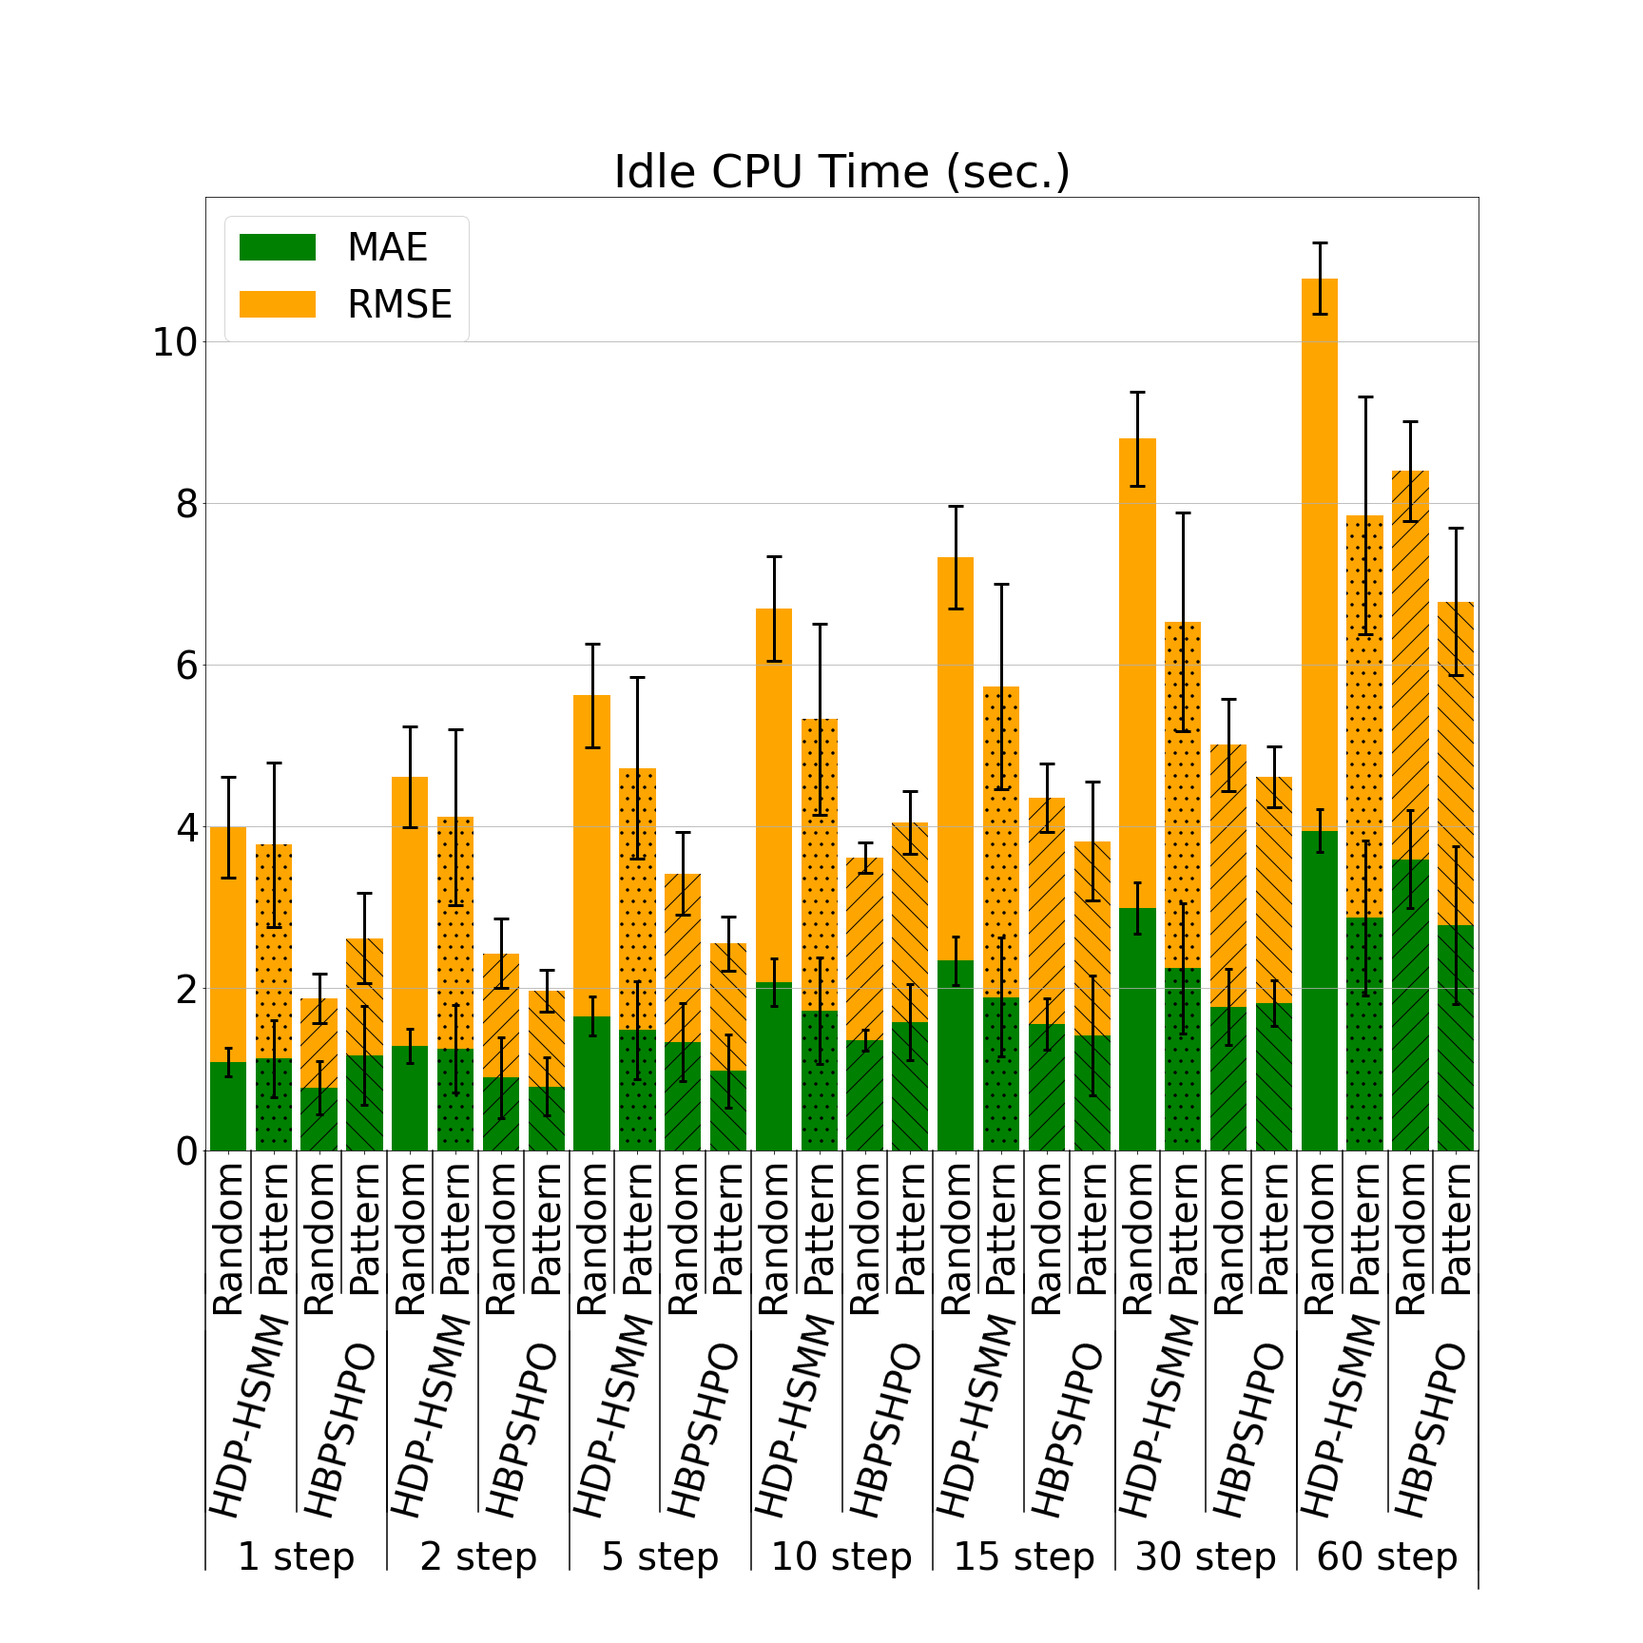
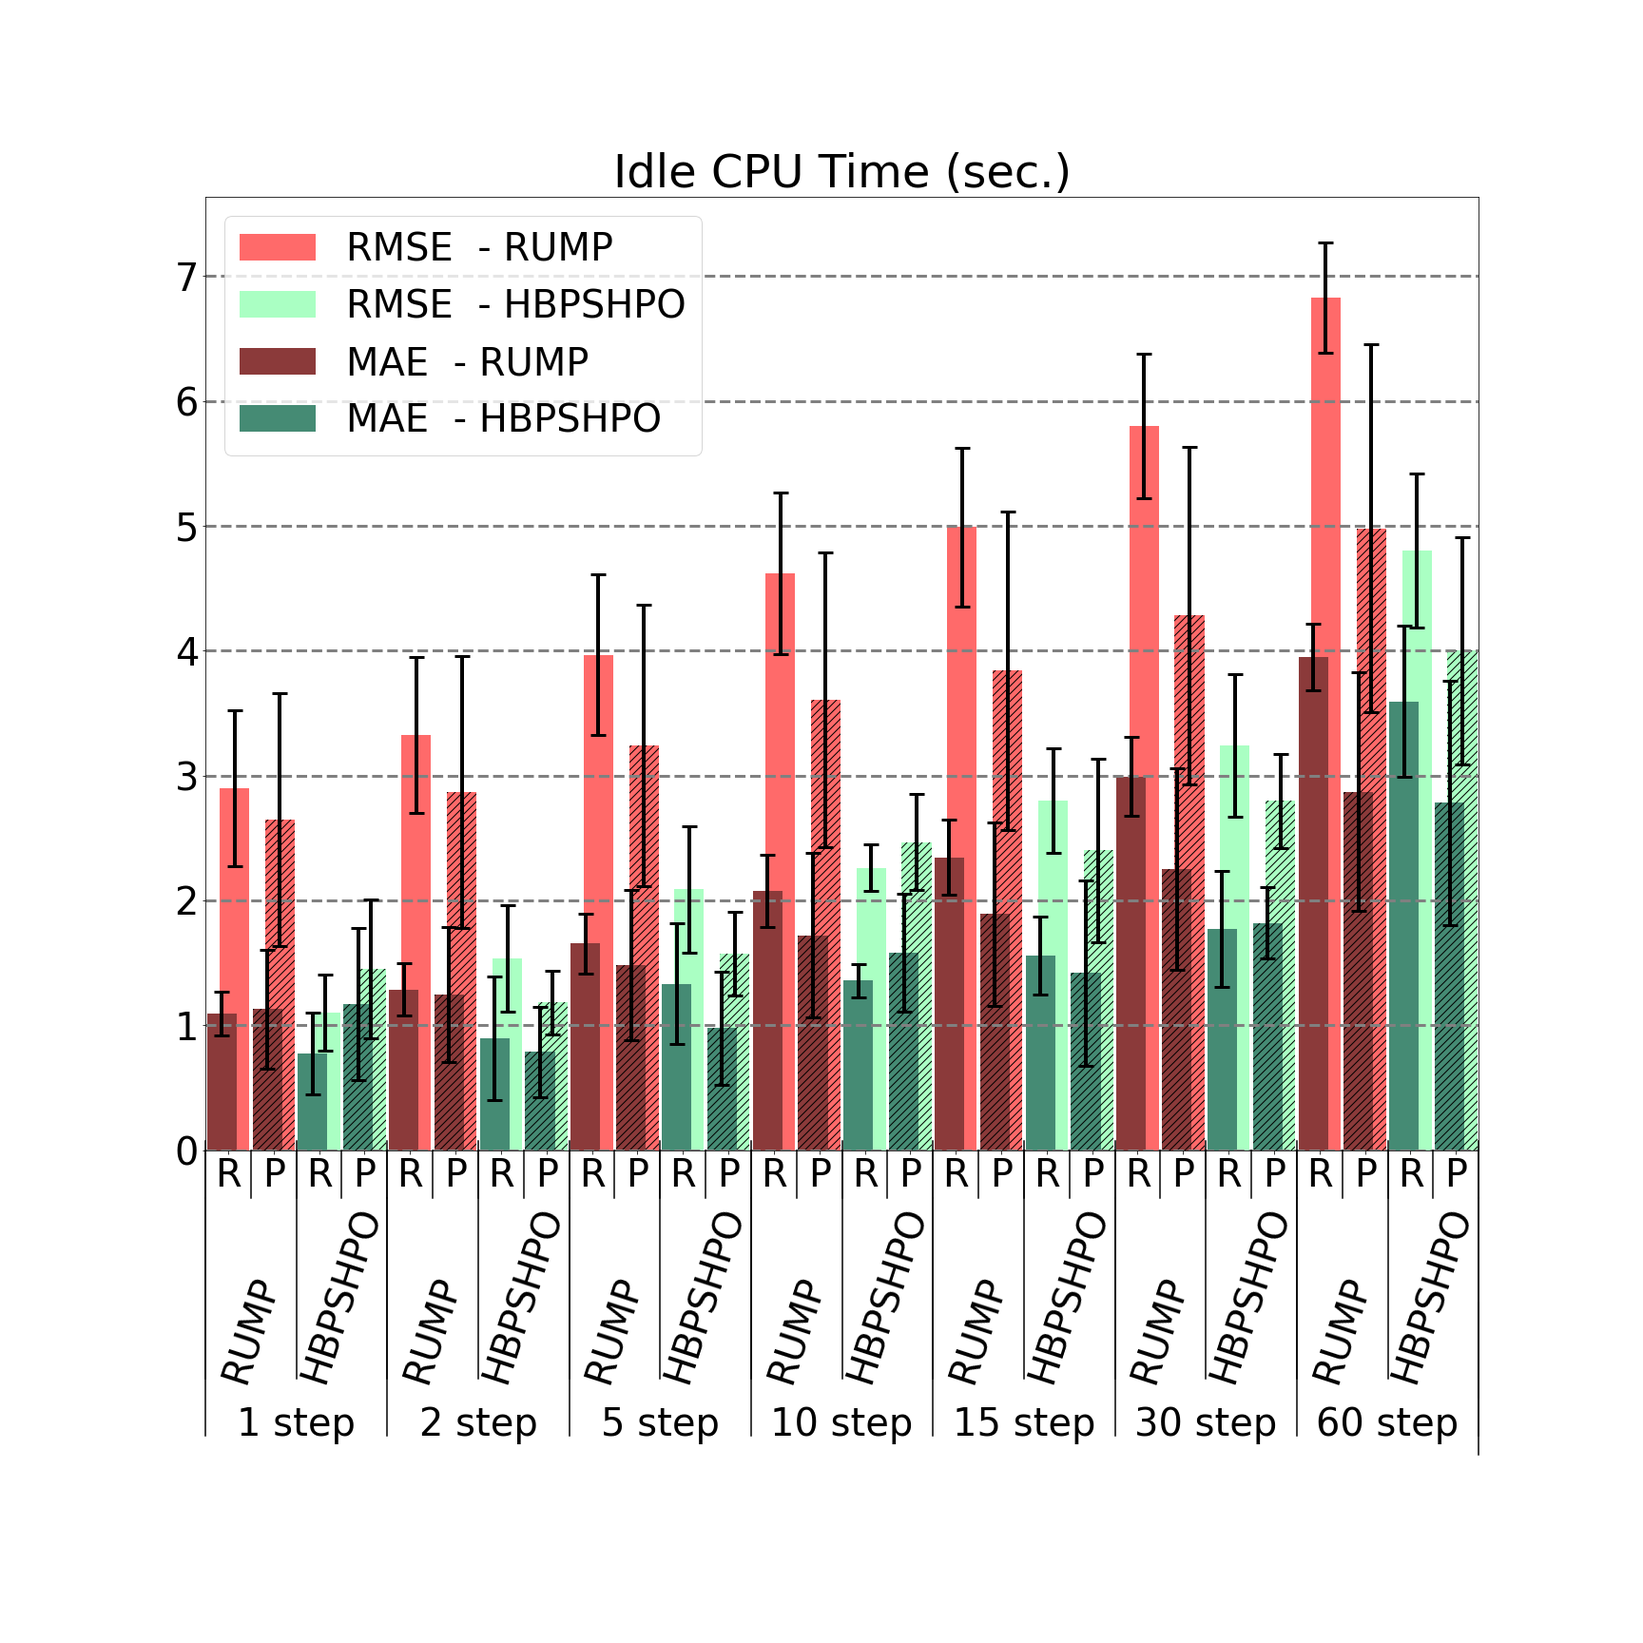
plot changes

diff --git a/performance_evaluation.py b/performance_evaluation.py
@@ -152,15 +152,34 @@ def label_group_bar(ax, mae_data, rmse_data):
   mae_ly, rmse_ly = len(mae_y), len(rmse_y)
   mae_xticks, rmse_xticks = np.arange(1, mae_ly + 1), np.arange(1, mae_ly + 1)
 
+  color_pair1 = ['#aaffc3', '#8B3A3A']  # color pair 1:  Mint, Apricot: #ffd8b1, Blueviolet: #8A2BE2
+  color_pair2 = ['#458B74','#FF6A6A']  # color pair 2: Teal, Beige: #fffac8, Pink: #fabed4
 
-  mae_bars = ax.bar(mae_xticks, [np.mean(m_y) for m_y in mae_y], yerr= [np.std(m_y) for m_y in mae_y], align='center',color='green', label = 'MAE', error_kw=dict(lw=3, capsize=4, capthick=3))
-  rmse_bars = ax.bar(rmse_xticks, [np.mean(r_y) for r_y in rmse_y], yerr= [np.std(r_y) for r_y in rmse_y], bottom = [np.mean(m_y) for m_y in mae_y], align='center',color='orange', label = "RMSE", error_kw=dict(lw=3, capsize=8, capthick=3))
 
-  hatches = ['','//','O','.']*7
+  # define list of dark colors
+  # https://sashat.me/2017/01/11/list-of-20-simple-distinct-colors/
+  rmse_bars = ax.bar(rmse_xticks+0.14, [np.mean(r_y) for r_y in rmse_y], yerr= [np.std(r_y) for r_y in rmse_y], width=0.65, align='center', error_kw=dict(lw=4, capsize=8, capthick=3))
+  mae_bars = ax.bar(mae_xticks-0.14, [np.mean(m_y) for m_y in mae_y], yerr= [np.std(m_y) for m_y in mae_y], width=0.65, align='center', error_kw=dict(lw=4, capsize=8, capthick=3))
+  
+  hatches = ['','///']*14
+
+  count = 0
 
   for i in range(len(mae_bars)):
-    mae_bars[i].set(hatch = hatches[i],edgecolor='black')
-    rmse_bars[i].set(hatch = hatches[i],edgecolor='black')
+    count += 1
+    if count == 1 or count == 2:
+        mae_bars[0].set(label = 'MAE  - RUMP')
+        mae_bars[i].set(hatch=hatches[i], facecolor=color_pair1[1]) # edgecolor='black'
+        rmse_bars[0].set(label = 'RMSE  - RUMP')
+        rmse_bars[i].set(hatch=hatches[i], facecolor=color_pair2[1])
+    else:
+        mae_bars[2].set(label = 'MAE  - HBPSHPO')
+        mae_bars[i].set(hatch=hatches[i],  facecolor=color_pair2[0])
+        rmse_bars[2].set(label = 'RMSE  - HBPSHPO')
+        rmse_bars[i].set(hatch=hatches[i], facecolor=color_pair1[0])
+        if count == 4:
+           count = 0
+
 
   ax.set_xticks(mae_xticks)
   ax.set_xticklabels(mae_x)
@@ -354,60 +373,153 @@ for res in Resources:
   fig.subplots_adjust(bottom=0.3)
   
   if res == 'User CPU Time (sec.)':
-    plt.yticks(np.arange(0, 12, 1))
+    plt.yticks(np.arange(0, 8, 1))
   elif res == 'System CPU Time (sec.)':
-    plt.yticks(np.arange(0, 1.1, 0.1))
+    plt.yticks(np.arange(0, 0.7, 0.1))
   elif res == 'Idle CPU Time (sec.)':
-    plt.yticks(np.arange(0, 12, 1))
+    plt.yticks(np.arange(0, 8, 1))
   elif res == 'Memory Percent Usage':
-    plt.yticks(np.arange(0, 16, 1))
-  
-  #uncomment to save figures
-  #fig.savefig(r"figures/{} Error Plot.png".format(res))
+    plt.yticks(np.arange(0, 11, 1))
+  fig.savefig(r"figures/{} Error Plot.png".format(res))
   plt.show()
 
   mae_data_dict_full[res] = mae_data_dict
   rmse_data_dict_full[res] = rmse_data_dict
 
 # %%
-"""Plot RUMP vs HBPSHPO Error difference Box-Plots"""
+
 r_mae_percent, r_rmse_percent, p_mae_percent, p_rmse_percent = [], [], [], []
 for (res1, mae_data), (res2, rmse_data) in zip(mae_data_dict_full.items(), rmse_data_dict_full.items()):
-  #print(res1)
-  for lookahead in lookahead_list:
-    #print('lookahead', lookahead)
-    #for model in ['HDP-HSMM', 'HBPSHPO']:
-    #  print(model)
-    for data_type in ['R','P']:
-      #print(data_type)
-      if data_type == 'R':
-        r_mae_percent.append(100 * (np.mean(mae_data[f"{lookahead} step"]['RUMP'][data_type]) - np.mean(mae_data[f"{lookahead} step"]['HBPSHPO'][data_type])) / np.mean(mae_data[f"{lookahead} step"]['HBPSHPO'][data_type]))
-        r_rmse_percent.append(100 * (np.mean(rmse_data[f"{lookahead} step"]['RUMP'][data_type]) - np.mean(rmse_data[f"{lookahead} step"]['HBPSHPO'][data_type])) /np.mean(rmse_data[f"{lookahead} step"]['HBPSHPO'][data_type]))
-      elif data_type == 'P':
-        p_mae_percent.append(100 * (np.mean(mae_data[f"{lookahead} step"]['RUMP'][data_type]) - np.mean(mae_data[f"{lookahead} step"]['HBPSHPO'][data_type])) / np.mean(mae_data[f"{lookahead} step"]['HBPSHPO'][data_type]))
-        p_rmse_percent.append(100 * (np.mean(rmse_data[f"{lookahead} step"]['RUMP'][data_type]) - np.mean(rmse_data[f"{lookahead} step"]['HBPSHPO'][data_type])) /np.mean(rmse_data[f"{lookahead} step"]['HBPSHPO'][data_type]))
-      
+    for lookahead in lookahead_list:
+        for data_type in ['R', 'P']:
+            if data_type == 'R':
+                r_mae_percent.append(100 * (np.mean(mae_data[f"{lookahead} step"]['RUMP'][data_type]) - np.mean(
+                    mae_data[f"{lookahead} step"]['HBPSHPO'][data_type])) / np.mean(
+                    mae_data[f"{lookahead} step"]['HBPSHPO'][data_type]))
+                r_rmse_percent.append(100 * (np.mean(rmse_data[f"{lookahead} step"]['RUMP'][data_type]) - np.mean(
+                    rmse_data[f"{lookahead} step"]['HBPSHPO'][data_type])) / np.mean(
+                    rmse_data[f"{lookahead} step"]['HBPSHPO'][data_type]))
+            elif data_type == 'P':
+                p_mae_percent.append(100 * (np.mean(mae_data[f"{lookahead} step"]['RUMP'][data_type]) - np.mean(
+                    mae_data[f"{lookahead} step"]['HBPSHPO'][data_type])) / np.mean(
+                    mae_data[f"{lookahead} step"]['HBPSHPO'][data_type]))
+                p_rmse_percent.append(100 * (np.mean(rmse_data[f"{lookahead} step"]['RUMP'][data_type]) - np.mean(
+                    rmse_data[f"{lookahead} step"]['HBPSHPO'][data_type])) / np.mean(
+                    rmse_data[f"{lookahead} step"]['HBPSHPO'][data_type]))
 
-fig = plt.figure(figsize =(10, 8))
+fig = plt.figure(figsize=(10, 8))
 ax = fig.add_subplot(111)
-plt.rcParams.update({'font.size': 18}) 
+plt.rcParams.update({'font.size': 18})
 
-boxprops = dict(linewidth=3)
-medianprops = dict(linewidth=3, color='red',label='Median')
-meanlineprops = dict(linewidth=3, color='blue',label='Mean')
-whiskerprops = dict(linewidth=3)
-capprops = dict(linewidth=3)
-#flierprops= dict(markersize=15, linewidth = 3)
+boxprops = dict(linewidth=4)
+medianprops = dict(linewidth=5, color='#458B74')
+meanlineprops = dict(linewidth=5, color='#FF6A6A')
+whiskerprops = dict(linewidth=4)
+capprops = dict(linewidth=4)
 
-plt.boxplot([r_mae_percent,p_mae_percent,r_rmse_percent,p_rmse_percent],showmeans=True, showfliers = False, meanline=True, medianprops=medianprops, meanprops=meanlineprops, boxprops=boxprops, whiskerprops = whiskerprops, capprops = capprops)
+box_plot_data = [r_mae_percent, p_mae_percent, r_rmse_percent, p_rmse_percent]
+box_plot_colors = ['#aaffc3', '#8B3A3A', '#458B74', '#FF6A6A']
+
+bp = plt.boxplot(box_plot_data, showmeans=True, showfliers=False, meanline=True, patch_artist=True,
+                 medianprops=medianprops, meanprops=meanlineprops, boxprops=boxprops, whiskerprops=whiskerprops,
+                 capprops=capprops)
+
+for patch, color in zip(bp['boxes'], box_plot_colors):
+    patch.set_facecolor("#FFF8DC")
+
 ax.set_xticklabels(['Random MAE', 'Patterned MAE', 'Random RMSE', 'Patterned RMSE'])
-plt.ylabel('Percent Differrence')
+plt.ylabel('Percent Difference')
 plt.tight_layout()
-plt.grid()
-plt.legend(loc='best', numpoints=2)
-plt.yticks(np.arange(-30, 175, 10))
+plt.grid(axis='y', linestyle='--', alpha=0.7)
+plt.yticks(np.arange(-30, 175, 20))
+
+
+# Add legend for median and mean lines
+mean_line = plt.Line2D([], [], color='#FF6A6A', linestyle='--', linewidth=5, label='Mean')
+median_line = plt.Line2D([], [], color='#458B74', linestyle='-', linewidth=5, label='Median')
+plt.legend(handles=[mean_line, median_line], loc='upper left', fontsize=18)
+
 plt.show()
 
+# %%
+"""Plot RUMP vs HBPSHPO Error difference Violin Plots"""
+r_mae_percent, r_rmse_percent, p_mae_percent, p_rmse_percent = [], [], [], []
+for (res1, mae_data), (res2, rmse_data) in zip(mae_data_dict_full.items(), rmse_data_dict_full.items()):
+    for lookahead in lookahead_list:
+        for data_type in ['R', 'P']:
+            if data_type == 'R':
+                r_mae_percent.append(100 * (np.mean(mae_data[f"{lookahead} step"]['RUMP'][data_type]) - np.mean(
+                    mae_data[f"{lookahead} step"]['HBPSHPO'][data_type])) / np.mean(
+                    mae_data[f"{lookahead} step"]['HBPSHPO'][data_type]))
+                r_rmse_percent.append(100 * (np.mean(rmse_data[f"{lookahead} step"]['RUMP'][data_type]) - np.mean(
+                    rmse_data[f"{lookahead} step"]['HBPSHPO'][data_type])) / np.mean(
+                    rmse_data[f"{lookahead} step"]['HBPSHPO'][data_type]))
+            elif data_type == 'P':
+                p_mae_percent.append(100 * (np.mean(mae_data[f"{lookahead} step"]['RUMP'][data_type]) - np.mean(
+                    mae_data[f"{lookahead} step"]['HBPSHPO'][data_type])) / np.mean(
+                    mae_data[f"{lookahead} step"]['HBPSHPO'][data_type]))
+                p_rmse_percent.append(100 * (np.mean(rmse_data[f"{lookahead} step"]['RUMP'][data_type]) - np.mean(
+                    rmse_data[f"{lookahead} step"]['HBPSHPO'][data_type])) / np.mean(
+                    rmse_data[f"{lookahead} step"]['HBPSHPO'][data_type]))
+
+fig = plt.figure(figsize=(10, 8))
+ax = fig.add_subplot(111)
+plt.rcParams.update({'font.size': 18})
+
+violin_plot_data = [r_mae_percent, p_mae_percent, r_rmse_percent, p_rmse_percent]
+violin_plot_colors = ['#aaffc3', '#8B3A3A', '#458B74', '#FF6A6A']
+
+vp = ax.violinplot(violin_plot_data)
+
+for i, body in enumerate(vp['bodies']):
+    body.set_facecolor(violin_plot_colors[i])
+    body.set_edgecolor('black')
+    body.set_linewidth(2)
+    body.set_alpha(0.5)
+    #change 
+
+# Add mean and median lines
+for i, data in enumerate(violin_plot_data):
+    x = i + 1
+    mean = np.mean(data)
+    median = np.median(data)
+    ax.plot([x - 0.15, x + 0.15], [mean, mean], color='#8B0A50', linestyle='-', linewidth=3)
+    ax.plot([x - 0.15, x + 0.15], [median, median], color='#2F4F4F', linestyle='-', linewidth=3)
+
+# Customize quartile lines
+for i in range(len(violin_plot_data)):
+    quartiles = np.percentile(violin_plot_data[i], [0.001, 99.999])
+    ax.vlines(i + 1, quartiles[0], quartiles[1], color='black', linewidth=2)
+    ax.hlines(quartiles, i + 1 - 0.2, i + 1 + 0.2, color='black', linewidth=2)
+
+ax.set_xticks([1, 2, 3, 4])
+ax.set_xticklabels(['Random MAE', 'Patterned MAE', 'Random RMSE', 'Patterned RMSE'])
+plt.ylabel('Percent Difference')
+plt.tight_layout()
+plt.grid(axis='y', linestyle='--', alpha=0.7)
+plt.yticks(np.arange(-30, 200, 20))
+
+# Add annotations for the first violin chart
+hbposhpo_annotation = 'HBPSHPO'
+rump_annotation = 'RUMP'
+first_violin_max = np.max(r_mae_percent)
+first_violin_min = np.min(r_mae_percent)
+
+ax.annotate(hbposhpo_annotation, xy=(1, first_violin_max), xytext=(1.15, first_violin_max + 7),
+            arrowprops=dict(facecolor='black', shrink=0.05, width=1, headwidth=7), fontsize=18)
+
+ax.annotate(rump_annotation, xy=(1, first_violin_min), xytext=(1.15, first_violin_min - 9),
+            arrowprops=dict(facecolor='black', shrink=0.05, width=1, headwidth=7), fontsize=18)
+
+
+# Add legend for median and mean lines
+mean_line = plt.Line2D([], [], color='#8B0A50', linestyle='-', linewidth=3, label='Mean')
+median_line = plt.Line2D([], [], color='#2F4F4F', linestyle='-', linewidth=3, label='Median')
+plt.legend(handles=[mean_line, median_line], loc='upper left', fontsize=18)
+
+
+
+plt.show()
 #%%
 
 
@@ -477,8 +589,8 @@ for device in data_associations_dict:
                     accuracy.append(accuracy_score(loads(row[f'label - {prediction_window} step']), loads(row[f'predicted states - {prediction_window} step']))*100)
                 else:
                     accuracy.append(accuracy_score(row[f'label - {prediction_window} step'], row[f'predicted states - {prediction_window} step'])*100)
-            data_associations_dict[device]['test_data'][model][f'accuracy - {prediction_window} step'] = accuracy
-            mean_accuracy = round(mean(accuracy),2)
+            data_associations_dict[device]['test_data'][model][f'accuracy - {prediction_window} step'] = accuracy.copy()
+            mean_accuracy = round(np.mean(accuracy),2)
             test_accuracy[device][model].append(mean_accuracy)
             print(f"{prediction_window} step prediction accuracy: {mean_accuracy}%")
             #plot_accuracy_likelihood(prediction_window, 100)
@@ -511,8 +623,8 @@ for device in test_accuracy:
 
     plt.plot(prediction_windows,[(r1 + r2) / 2 for r1, r2 in zip(test_random_1, test_random_2)], marker='o',label = 'random - test')
     plt.plot(prediction_windows,[(p1 + p2) / 2 for p1, p2 in zip(test_pattern_1, test_pattern_2)], marker='o',label = 'pattern - test')
-    plt.axhline(mean(train_states_random_1)*100,label='random - train')
-    plt.axhline(mean(train_states_pattern_1)*100,color='orange',label='pattern - train')
+    plt.axhline(np.mean(train_states_random_1)*100,label='random - train')
+    plt.axhline(np.mean(train_states_pattern_1)*100,color='orange',label='pattern - train')
     plt.legend(loc='best')
     plt.ylabel('% Accuracy')
     plt.xlabel('Steps')
@@ -554,4 +666,125 @@ for device in test_accuracy:
     #fig.tight_layout()
 
     plt.show()
+# %%
+
+# %%
+
+def get_label(old_label):
+
+    if old_label == 'random':
+        return'Random'
+    elif old_label == 'pattern':
+        return'Pattern'
+    elif old_label == 'RPi4B8GB':
+        return'A'
+    elif old_label == 'RPi4B4GB':
+        return'B'
+    elif old_label == 'RPi4B2GB2':
+        return'C'
+    elif old_label == 'RPi4B2GB1':
+        return'D'
+
+
+def get_color(dev):
+    # '#aaffc3', '#8B3A3A', '#458B74', '#FF6A6A'
+    if dev == 'RPi4B8GB': 
+        return '#aaffc3'
+    elif dev == 'RPi4B4GB':
+        return '#8B3A3A'
+    elif dev == 'RPi4B2GB2':
+        return '#458B74'
+    elif dev == 'RPi4B2GB1':    
+        return '#FF6A6A'
+    
+
+import matplotlib.pyplot as plt
+
+prediction_windows = [1,2,5,10,15,30,60]
+sequence_type = ['random', 'pattern']
+sq_test_accuracies, sq_train_accuracies = [], []
+for sq_type in sequence_type:
+    
+    fig, ax = plt.subplots(figsize =(8, 6))
+    plt.rcParams.update({'font.size': 14})
+    test_accuracyies_list, train_accuracyies_list = [], []
+    for device in test_accuracy:
+        
+        
+        
+        for model in test_accuracy[device]:
+            if sq_type in model and '2' not in model:
+                test_1 = test_accuracy[device][model]
+                test_states_1 = test_accuracy_states[device][model]
+                train_states_1 = train_accuracy_states[device][model]
+            elif sq_type in model and '2' in model and '2GB1' not in device:
+                test_2 = test_accuracy[device][model]
+                test_states_2 = test_accuracy_states[device][model]
+                train_states_2 = train_accuracy_states[device][model]
+            elif sq_type in model and '3' in model and '2GB1' in device:
+                test_2 = test_accuracy[device][model]
+                test_states_2 = test_accuracy_states[device][model]
+                train_states_2 = train_accuracy_states[device][model]
+
+        print(f'{device}_{data_associations_dict[device]["freq"]}')
+
+        
+        #print('Avg')
+        
+        plt.plot(prediction_windows,[(t1 + t2) / 2 for t1, t2 in zip(test_1, test_2)], marker='o', markersize = 8, color = get_color(device) , linewidth = 2, linestyle = '--', label = f'{get_label(device)}  - Test')
+        test_accuracyies_list.append([(t1 + t2) / 2 for t1, t2 in zip(test_1, test_2)])
+        plt.axhline(np.mean([(ts1 + ts2) / 2 for ts1, ts2 in zip(train_states_1, train_states_2)])*100, linewidth = 2, color = get_color(device),label= f'{get_label(device)} - Train')
+        train_accuracyies_list.append(np.mean([(ts1 + ts2) / 2 for ts1, ts2 in zip(train_states_1, train_states_2)])*100)
+
+    plt.legend(loc='center right')
+    plt.ylabel('Percent Accuracy')
+    plt.xlabel('Steps')
+    #plt.title(get_label(sq_type) + ' State Sequence')
+    plt.grid()
+    plt.yticks(np.arange(50, 105, 5))
+    plt.xticks(prediction_windows)
+    plt.setp(ax.xaxis.get_majorticklabels()[0],ha="right" )
+    plt.setp(ax.xaxis.get_majorticklabels()[1:],ha="left" )
+    
+    plt.show() 
+    print(sq_type, ' average train accuracy')
+    print(sum(train_accuracyies_list) / len(train_accuracyies_list))
+    sq_train_accuracies.append(sum(train_accuracyies_list) / len(train_accuracyies_list))
+
+    print(sq_type, ' average test accuracy')
+    print([sum(acc_sub_list) / len(acc_sub_list) for acc_sub_list in zip(*test_accuracyies_list)])
+    sq_test_accuracies.append([sum(acc_sub_list) / len(acc_sub_list) for acc_sub_list in zip(*test_accuracyies_list)])
+    """
+    print('1')
+    plt.plot(prediction_windows,test_1, marker='o', markersize = 8 , linewidth = 3, color ='limegreen', label = f'{get_label(device)} - {get_label(sq_type)} - Test')
+    plt.axhline(mean(train_states_1)*100, linewidth = 3, color ='orange',label= f'{get_label(device)} - {get_label(sq_type)} - Train')
+    plt.legend(loc='upper right')
+    plt.ylabel('Percent Accuracy')
+    plt.xlabel('Steps')
+    plt.grid()
+    plt.yticks(np.arange(50, 105, 5))
+    plt.xticks(prediction_windows)
+    plt.show() 
+
+    print('2')
+    plt.plot(prediction_windows,test_2, linewidth = 3, color ='orange',label= f'{get_label(device)} - {get_label(sq_type)} - Train')
+    plt.axhline(mean(train_states_1)*100, linewidth = 3, color ='orange',label= f'{get_label(device)} - {get_label(sq_type)} - Train')
+    plt.legend(loc='upper right')
+    plt.ylabel('Percent Accuracy')
+    plt.xlabel('Steps')
+    plt.grid()
+    plt.xticks(prediction_windows)
+    plt.yticks(np.arange(50, 105, 5))
+    plt.show()
+
+    """
+
+
+print('overall average train accuracy')
+print(sum(sq_train_accuracies) / len(sq_train_accuracies))
+   
+
+print('overall average test accuracy')
+print([sum(acc_sub_list) / len(acc_sub_list) for acc_sub_list in zip(*sq_test_accuracies)])
+   
 # %%
